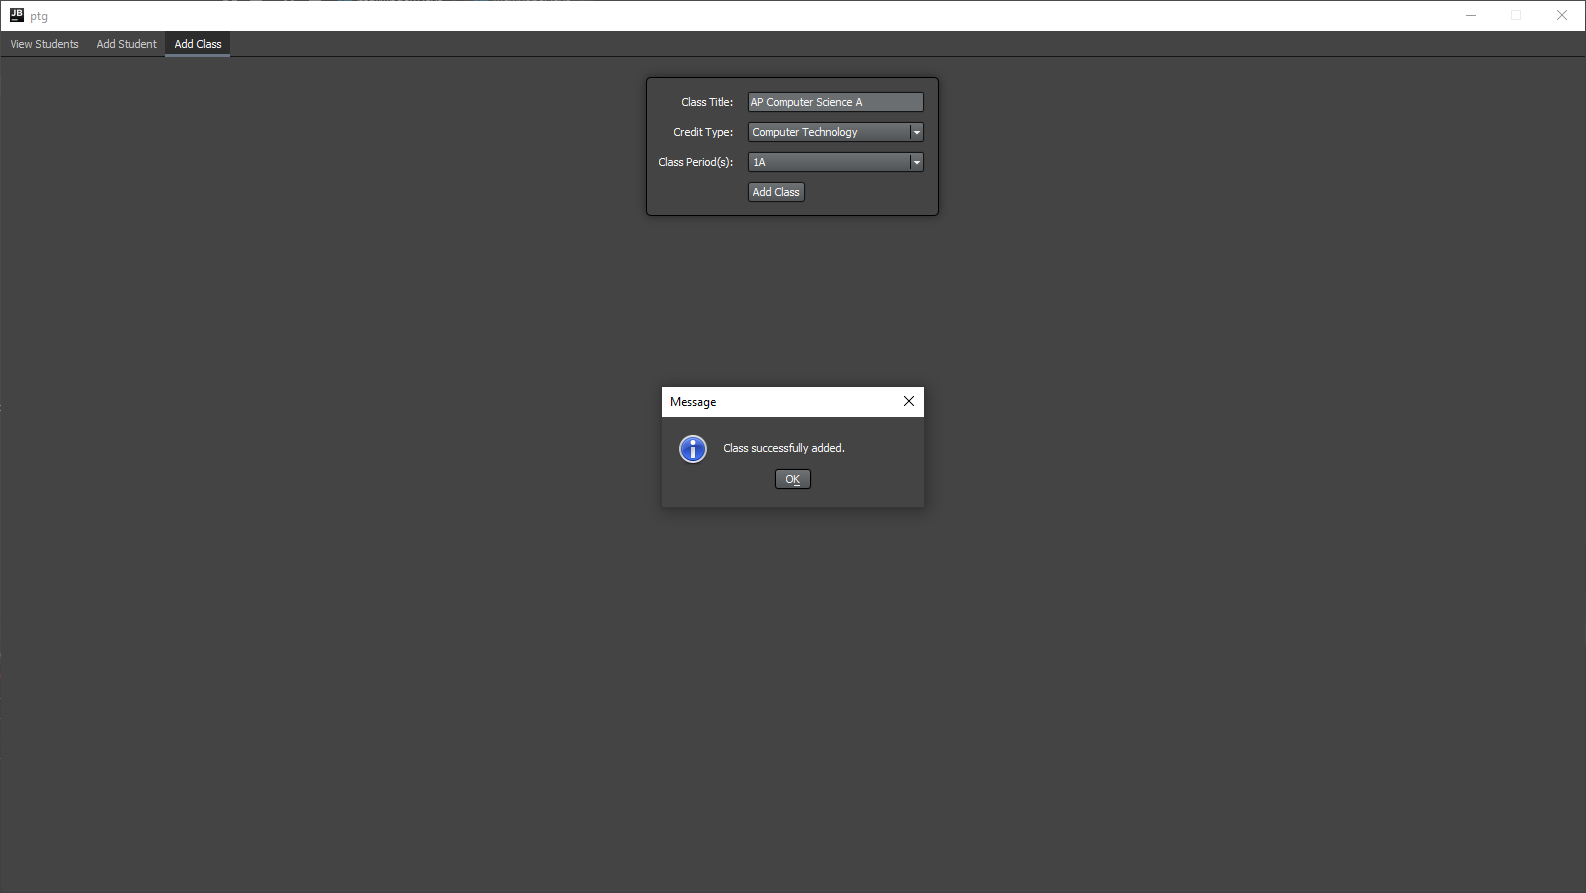
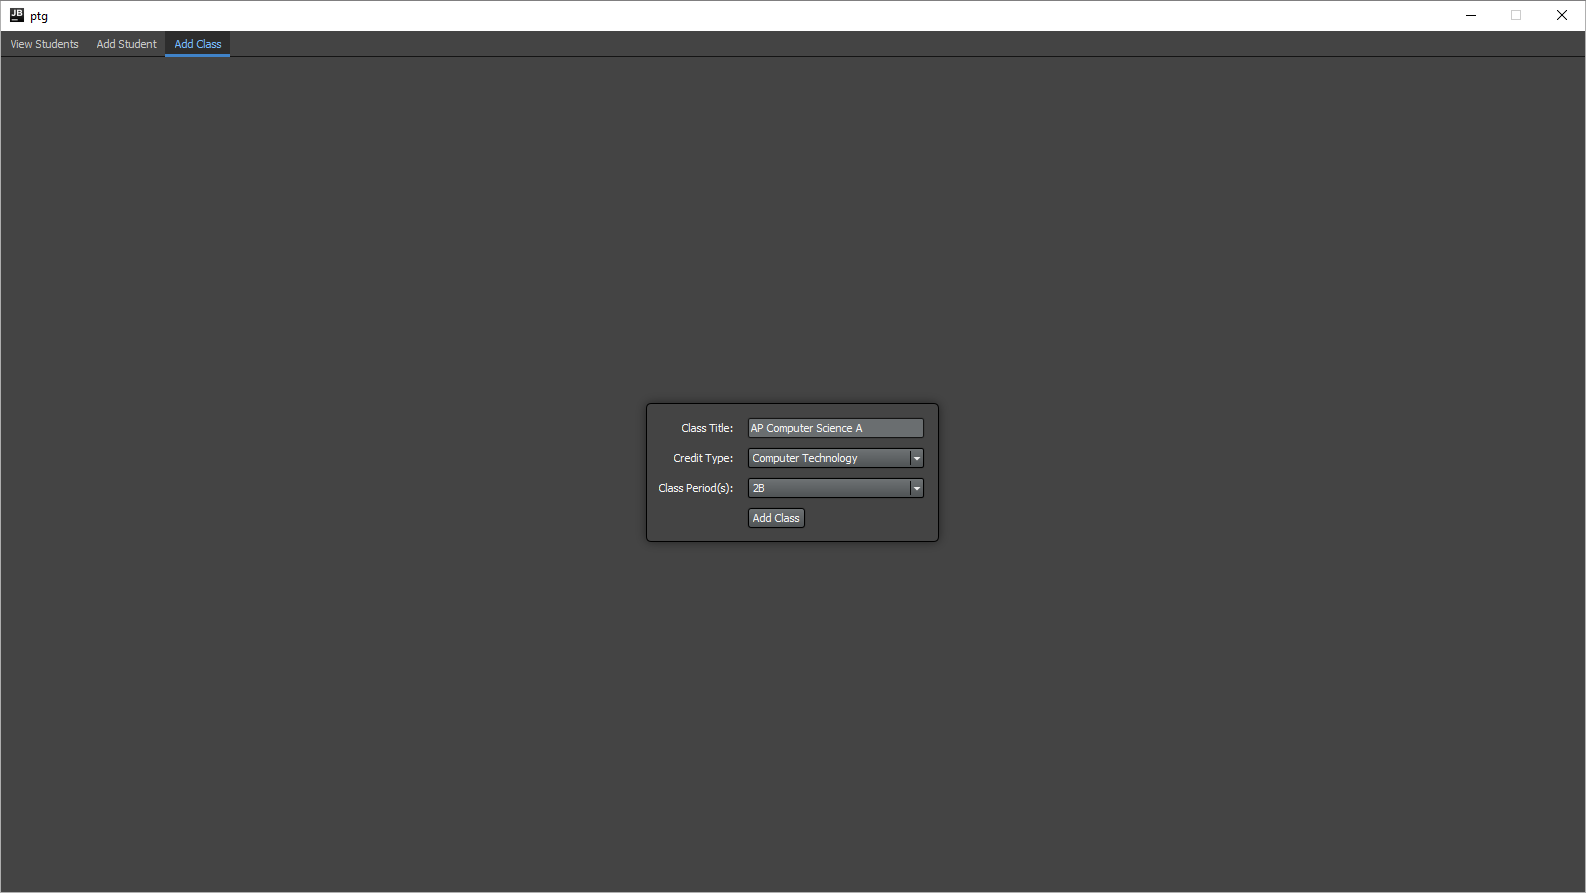
refined classpanel ui, updated pics

diff --git a/src/ClassPanel.java b/src/ClassPanel.java
@@ -35,6 +35,7 @@ public class ClassPanel extends JPanel {
             }
         });
         //set up layout and pane
+        setLayout(new BoxLayout(this, BoxLayout.X_AXIS));
         infoPane.setLayout(infoLayout);
         infoLayout.setAutoCreateGaps(true);
         infoLayout.setAutoCreateContainerGaps(true);
@@ -66,6 +67,9 @@ public class ClassPanel extends JPanel {
                 .addGroup(infoLayout.createParallelGroup(GroupLayout.Alignment.CENTER, false)
                         .addComponent(addClass))
         );
+        //add panels with spacing
+        add(Box.createHorizontalGlue());
         add(infoPane);
+        add(Box.createHorizontalGlue());
     }
 }
